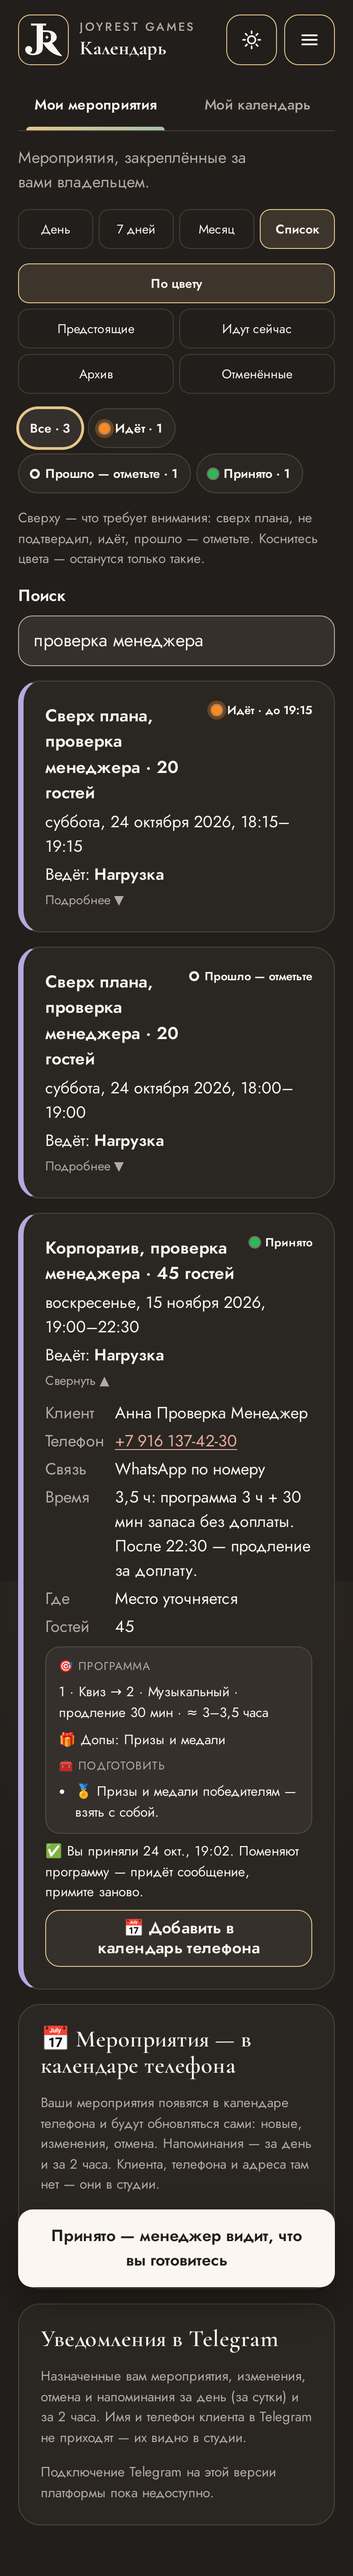
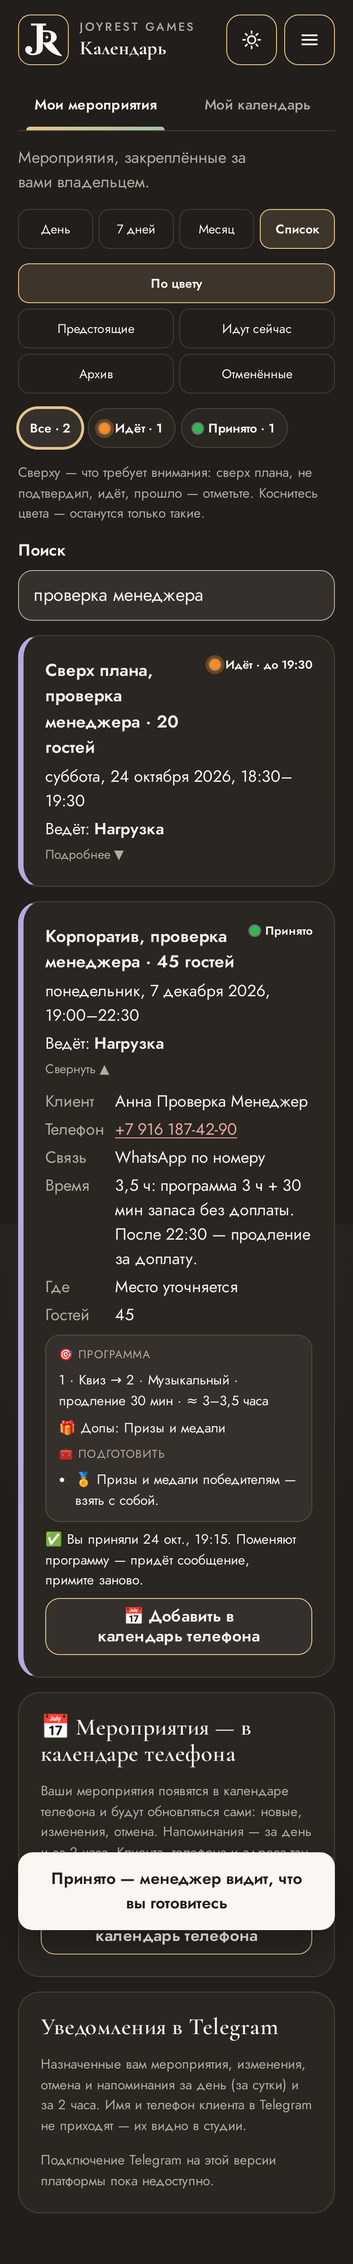
Снимки проверки пути менеджера 8553c99

diff --git a/manager/README.md b/manager/README.md
@@ -1,0 +1,116 @@
+# Проверка пути менеджера
+
+**Замечаний: 4**
+
+- ❌ Правка комментария: «Принято» осталось
+- ❌ API: {}
+- ❌ Ведущий: принял изменённое — снова 🟢
+- ❌ Старая страница без поля «связь» — связь не стирается
+
+- ℹ Менеджер: sales-check@joy-rest.ru (роль «Менеджер по продажам»), ведущий: Нагрузка, праздник клиента: 2026-12-07
+- ✅ Менеджер: мероприятие для проверки «Сверх плана» записано
+
+## 1. Клиент на сайте: калькулятор → расчёт менеджеру
+
+- ✅ Сайт: дата и время, набранные с клавиатуры, на месте
+- ✅ Сайт: «Как к вам обращаться» — строкой «Имя» в сообщении менеджеру
+- ✅ Сайт: в расчёте дата, начало и длительность
+- ✅ Сайт: Telegram получает тот же расчёт с именем, без «%», «+», «&»
+- ✅ Сайт: в имени — только буквы (разметка и цифры вырезаются)
+- ✅ Сайт: без имени — строки «Имя» нет (поле по желанию)
+- ℹ Расчёт: длительность до 3.5 ч → «до» 22:30
+
+## 2. Менеджер: новый клиент из сообщения WhatsApp
+
+- ✅ Менеджер: в студии — «Рабочее место»
+- ✅ Менеджер: анкета из расчёта — имя, телефон, дата, время
+- ✅ Менеджер: клиент «В работе», видно кто ведёт
+
+## 3. «📅 Записать мероприятие ведущему»: подставленное, обязательное, ошибки, черновик
+
+- ✅ Форма: «Заполнено N из 8 · осталось: связь, повод, где, кто ведёт»
+- ✅ Форма: программа и время из расчёта уже стоят
+- ✅ Форма: подставленное отмечено «из карточки клиента»
+- ✅ Форма: пока не всё обязательное — «Записать» недоступна
+- ✅ Форма: «Когда» — 19:00–22:30, подпись про 30 минут запаса и доплату
+- ✅ Форма: программа по порядку — 1 · Квиз, 2 · Музыкальный
+- ✅ Ошибка: короткий ник — подсказка, как правильно
+- ✅ Связь: ник принят — «✓ Telegram @anna_party»
+- ✅ Ошибка: почта без домена — подсказка
+- ✅ Ошибка: неполный телефон — подсказка
+- ✅ Ошибка: WhatsApp без полного номера — нельзя
+- ✅ Ошибка: 99 999 гостей — подсказка, «Записать» недоступна
+- ✅ Форма: осталось одно — «кто ведёт»
+- ✅ Форма: касание «осталось …» прокручивает к «Кто ведёт»
+- ✅ Черновик: после ухода в «Клиенты» — в «Черновиках мероприятий»
+- ✅ Черновик: «Продолжить» — всё на месте: имя, повод, связь, «место уточняется», 7 из 8
+- ✅ Форма: у ведущего видна занятость на это время («НагрузкаНе отметил»)
+- ✅ Форма: «✓ Всё обязательное заполнено», «Записать» доступна
+- ℹ форма-заполнена: кнопки ниже 40 px: ✓ Всё обязательное заполнено
+- ✅ Черновик: после «Записать» — черновика больше нет
+
+## 4. Записано: ведущему заявка, клиент — «Клиент», кружок 🟡
+
+- ✅ Двойное касание «Записать» — одно мероприятие
+- ✅ API: записано всё — клиент, связь WhatsApp, 19:00–22:30, «место уточняется», 45 гостей, программа по порядку, ведущий, ещё не принято
+- ✅ Клиент: после «Записать» сам стал «Клиент»
+- ✅ Календарь ведущего: занят 19:00–22:30 (вместе с запасом), без имени клиента
+- ✅ Кружок: 🟡 «Ждёт ведущего»
+- ✅ Карточка менеджера: связь, «место уточняется», время с запасом, программа
+- ✅ Права: у менеджера нет «Удалить навсегда»
+- ✅ Права: у менеджера нет «Итогов»
+
+## 5. Ведущий: видит заявку и нажимает «✅ Принял, готовлюсь»
+
+- ✅ Ведущий: кружок — «Подтвердите»
+- ✅ Ведущий: программа по порядку, клиент, связь, время «с … до …»
+- ✅ Права: ведущий не правит мероприятие
+- ✅ Ведущий: после касания — 🟢 «Принято»
+- ✅ Менеджер: кружок стал 🟢 «Принято»
+
+## 6. Правки: комментарий не сбрасывает «Принято», время — сбрасывает
+
+- ❌ Правка комментария: «Принято» осталось
+- ❌ API: {}
+- ✅ Менеджер: кружок снова 🟡 «Ждёт ведущего»
+- ❌ Ведущий: принял изменённое — снова 🟢
+
+## 7. Кружки на настоящих мероприятиях
+
+- ✅ 🔴 «Не подтвердил · через 10 ч» — до начала меньше суток
+- ✅ 🟠 «Идёт · до …» — время мероприятия
+- ✅ ⚪ «Прошло — отметьте» — время прошло, отметки нет
+- ✅ ⚫ «Отменено»
+- ✅ 🟢 «Принято»
+- ✅ «По цвету»: сначала срочное — 🔴 → 🟠 → ⚪ → 🟢 → ⚫
+- ✅ Фильтр «Не подтвердил»: только такие
+- ✅ «Рабочее место»: «Мероприятия — нужно внимание: Не подтвердил…»
+- ✅ Ведущий: «Проведено» — 🔵
+- ✅ Клиент: после «Проведено» — «Провели» (пора просить отзыв)
+- ✅ «Вернуть»: из ⚫ снова 🟡 «Ждёт ведущего»
+
+## 8. «📋 Вставить расчёт или заявку»: только пустые поля, подсветка «из расчёта»
+
+- ✅ Вставка: введённое имя не затёрто именем из расчёта
+- ✅ Вставка: «Подставлено из расчёта: связь, дата и время, программа…»
+- ✅ Вставка: ник Telegram из текста — связь Telegram
+- ✅ Вставка: подставленное подсвечено «из расчёта»
+- ✅ Вставка: поправил поле — метка «из расчёта» у него ушла
+- ✅ «Создать похожее»: клиент и программа те же
+
+## 9. Права и старые страницы
+
+- ✅ API: ведущий не записывает мероприятия (403)
+- ✅ API: менеджер не удаляет навсегда (403)
+- ✅ API: менеджер не выгружает клиентов (403)
+- ❌ Старая страница без поля «связь» — связь не стирается
+
+## 10. 🟣 «Сверх плана»: игра ведущего открыта после «до»
+
+- ℹ Ждём «до» 19:30 — 931 с
+- ✅ 🟣 «Сверх плана · N мин» — после «до» игра ещё открыта
+- ✅ Игру завершили — ⚪ «Прошло — отметьте»
+
+## 11. Раскладка: 360 px и планшет
+
+- Замечаний: 4
